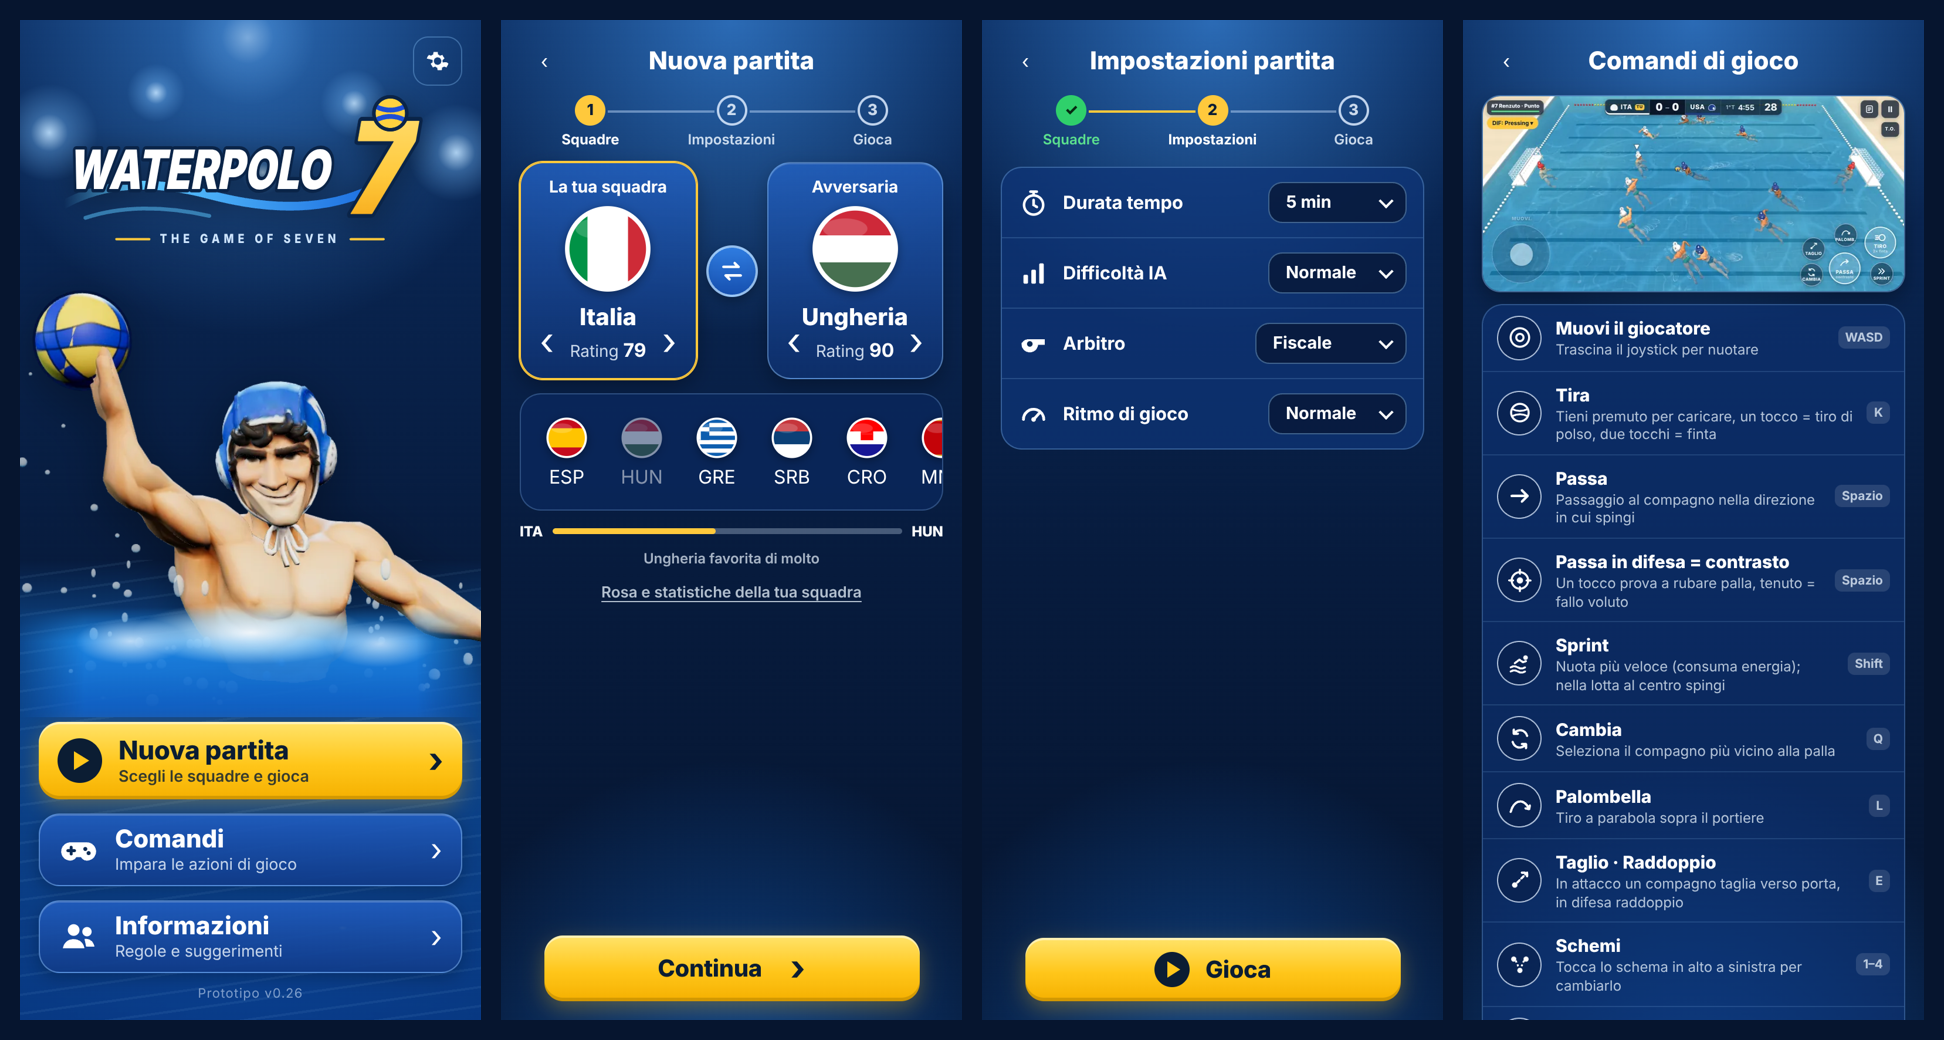
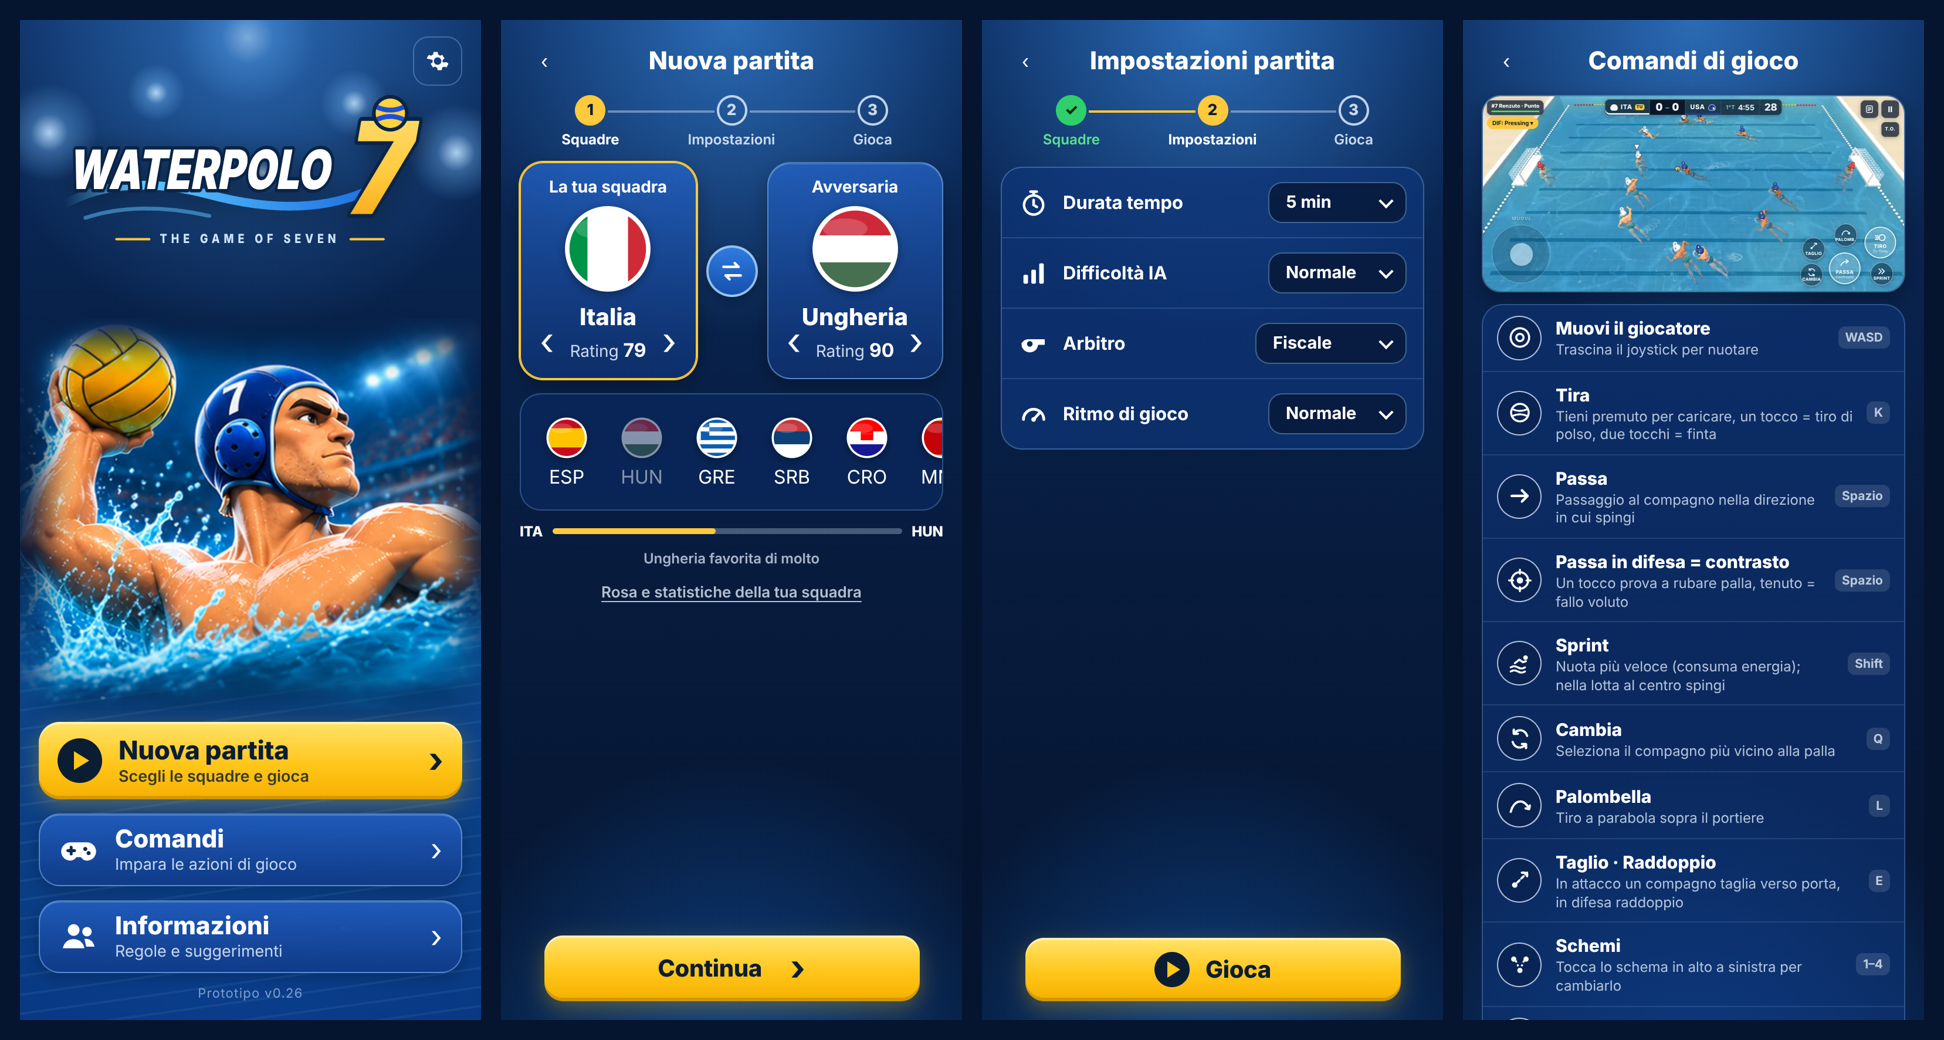
Home: il giocatore è quello dell'immagine del concept di Ale
Claude-Session: https://claude.ai/code/session_01XAJhVTigiGoNKwMZvUN4DX

Changed region(s): [[0.0, 0.2769, 0.2469, 0.7077]]

diff --git a/index.html b/index.html
@@ -67,7 +67,7 @@
     <div class="arena" aria-hidden="true"><i></i><i></i><i></i><i></i><i></i><i></i></div>
     <button type="button" class="m-icona m-angolo" data-va="opzioni" aria-label="Opzioni"><svg viewBox="0 0 24 24"><path d="M12 8.5a3.5 3.5 0 1 0 0 7 3.5 3.5 0 0 0 0-7zm8.4 4.6l1.8 1.4-2 3.4-2.1-.8a7.6 7.6 0 0 1-1.9 1.1l-.3 2.3h-3.9l-.4-2.3a7.6 7.6 0 0 1-1.9-1.1l-2.1.8-2-3.4 1.8-1.4a7.7 7.7 0 0 1 0-2.2L1.8 9.6l2-3.4 2.1.8a7.6 7.6 0 0 1 1.9-1.1l.4-2.3h3.9l.3 2.3c.7.3 1.3.6 1.9 1.1l2.1-.8 2 3.4-1.8 1.4c.1.7.1 1.5 0 2.2z" fill="currentColor"/></svg></button>
     <div class="h-logo" id="logoHome"></div>
-    <div class="eroe" aria-hidden="true"><img src="./src/immagini/giocatore-home.webp" alt="" decoding="async"><div class="eroe-acqua"></div></div>
+    <div class="eroe" aria-hidden="true"><img src="./src/immagini/giocatore-home.webp" alt="" decoding="async"></div>
     <div class="h-azioni">
       <button type="button" class="m-cta" data-va="squadre"><span class="m-play"></span><span><b>Nuova partita</b><small>Scegli le squadre e gioca</small></span><i>›</i></button>
       <button type="button" class="m-voce" data-va="comandi"><svg viewBox="0 0 24 24"><path d="M7 7.5h10a5.5 5.5 0 0 1 0 11c-1.8 0-2.8-1-3.6-2.1h-2.8C9.8 17.5 8.8 18.5 7 18.5a5.5 5.5 0 0 1 0-11z" fill="currentColor"/><path d="M7.5 10.5v4M5.5 12.5h4" stroke="#0b2a55" stroke-width="1.8" stroke-linecap="round"/><circle cx="16" cy="11.5" r="1.2" fill="#0b2a55"/><circle cx="18" cy="14" r="1.2" fill="#0b2a55"/></svg><span><b>Comandi</b><small>Impara le azioni di gioco</small></span><i>›</i></button>

diff --git a/src/stile.css b/src/stile.css
@@ -304,7 +304,7 @@ body.touch #fps b{font-size:12px}
 @media (orientation:portrait){
   #menu #vHome{padding-top:max(58px,var(--st))}
   #vHome .eroe{flex:1 1 0;min-height:200px;width:100%;margin:-10px 0 0;position:relative;display:block}
-  #vHome .eroe img{position:absolute;bottom:0;left:50%;width:auto;max-width:none;height:min(100%,94vw,500px);transform:translateX(-43%)}
+  #vHome .eroe img{position:absolute;bottom:0;left:50%;width:auto;max-width:none;height:min(100%,85vw,480px);transform:translateX(-50%)}
   #vHome .eroe-acqua{left:-16px;right:-16px;height:min(30%,140px)}
 }
 .h-azioni{display:flex;flex-direction:column;gap:12px;width:min(100%,420px);margin-top:10px}

diff --git a/CLAUDE.md b/CLAUDE.md
@@ -387,7 +387,7 @@ Come è realizzato oggi: `pose.js` calcola una posa verticale (con tutti i gesti
 - Bandiere: `src/dati/bandiere.js`, disegni SVG semplificati delle 16 nazionali (solo forme e colori, niente stemmi). Logo: `src/logo.js` (proposta), SVG con scritte a larghezza fissata (`textLength`), colori con nomi interni unici per copia (ERRORE trovato: con nomi uguali, la copia nascosta del logo toglieva il colore oro al 7 nelle altre). Favicon SVG con il 7 dorato.
 - Orientamento: il menu si usa in verticale e in orizzontale (in verticale i pulsanti della home stanno in basso, a portata di pollice); l'avviso «Ruota il dispositivo» e il blocco del gioco valgono solo in partita (classe `gioco` sul body, aggiornata in `main.js`); con il menu aperto l'interfaccia di gioco è nascosta e si intravede la piscina.
 - `npm run menu` (`tests/menu.mjs`, nei controlli automatici con `--solo-controlli`): iPhone verticale, orizzontale e SE con barre di Safari; screenshot di ogni schermata e controlli: titolo WATERPOLO 7, pulsante principale visibile senza scorrere, Italia–Ungheria in 3 tocchi, indietro che conserva le scelte, squadre e durata davvero usate in partita, avviso di rotazione solo in partita, pausa con comandi e opzioni. Immagini: `docs/immagini/menu-verticale.png`, `menu-orizzontale.png`, `logo-proposta.png`.
-- RIFATTO FEDELE AL CONCEPT (richiesta di Ale: «esattamente come il concept, con il giocatore in bella mostra»): home con luci dell'arena, logo, pallanuotista grande con palla e schizzi (`src/immagini/giocatore-home.webp`) e tre pulsanti «Nuova partita / Comandi / Informazioni» (ingranaggio in alto = opzioni); passi 1-2-3 con cerchi e linee; card squadre con bandiera rotonda (`bandiera(codice, cls, true)`) e «Rating»; striscia di bandiere rotonde; impostazioni come elenco con icona e menu a tendina (`#selLen #selDiff #selArb #selSpd`); comandi con un'immagine di gioco in alto (`src/immagini/comandi.webp`) e righe icona/titolo/spiegazione/tasto; nuova schermata «Informazioni» (`vInfo`, regole e suggerimenti). In orizzontale la home è su due colonne (giocatore a sinistra, logo e pulsanti a destra).
+- RIFATTO FEDELE AL CONCEPT (richiesta di Ale: «esattamente come il concept, con il giocatore in bella mostra»): home con luci dell'arena, logo, pallanuotista grande con palla e schizzi (`src/immagini/giocatore-home.webp`: dalla scelta di Ale è ritagliato dalla sua immagine del concept, bordi sfumati; il render del modello con `strumenti/eroe.mjs` resta come alternativa) e tre pulsanti «Nuova partita / Comandi / Informazioni» (ingranaggio in alto = opzioni); passi 1-2-3 con cerchi e linee; card squadre con bandiera rotonda (`bandiera(codice, cls, true)`) e «Rating»; striscia di bandiere rotonde; impostazioni come elenco con icona e menu a tendina (`#selLen #selDiff #selArb #selSpd`); comandi con un'immagine di gioco in alto (`src/immagini/comandi.webp`) e righe icona/titolo/spiegazione/tasto; nuova schermata «Informazioni» (`vInfo`, regole e suggerimenti). In orizzontale la home è su due colonne (giocatore a sinistra, logo e pulsanti a destra).
 - Le impostazioni si cambiano da codice con `imposta('len'|'diff'|'arb'|'spd', valore)` (esposta in `window.__pallanuoto.imposta`, usata dai test al posto dei vecchi pulsanti `data-len`/`data-arb`).
 - Il giocatore della home è un render del modello del gioco con la stessa posa via ossa: `node strumenti/eroe.mjs` (pagina `strumenti/converti/eroe.html`/`eroe.js`, parametri della posa in `POSA`), poi ritaglio e conversione in webp.
 - Non fatto: icona per la schermata Home dell'iPhone in PNG (c'è solo l'icona SVG del browser); schermata «Informazioni» del concept (non richiesta come modalità); bandiere senza stemmi.
